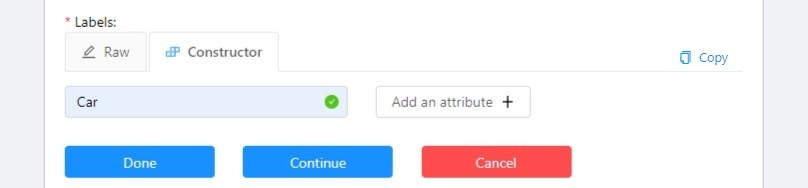
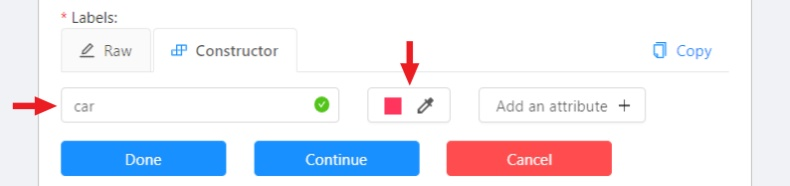
Update a few items in User Guide (#2236)
* Update user_guide.md and images

* Fix markup in user_guide.md

diff --git a/cvat/apps/documentation/user_guide.md b/cvat/apps/documentation/user_guide.md
@@ -100,7 +100,7 @@ Go to the [Django administration panel](http://localhost:8080/admin). There you 
     -   The ``Constructor`` is a simple way to add and adjust labels. To add a new label click the ``Add label`` button.
           ![](static/documentation/images/image123.jpg)
 
-        You can set a name of the label in the ``Label name`` field.
+        You can set a name of the label in the ``Label name`` field and choose a color for each label.
 
           ![](static/documentation/images/image124.jpg)
 
@@ -705,9 +705,6 @@ Button assignment:
   - [MS COCO](http://cocodataset.org/#format-data)
   - [YOLO](https://pjreddie.com/darknet/yolo/)
 - ``Open the task`` — opens a page with details about the task.
-- ``Run ReID merge`` —  automatic merge of shapes or tracks.
-  It is used to combine individual objects - created by automatic annotation in a single track.
-  For more information click [here](cvat/apps/reid/README.md).
 
 #### Save Work
 Saves annotations for the current job. The button has an indication of the saving process.
@@ -1353,12 +1350,14 @@ You can find the list of available models in the ``Models`` section.
 
     ![](static/documentation/images/gif014_detrac.gif)
 
-1.  Separated bounding boxes can be edited by removing false positives, adding unlabeled objects and
-    merging into tracks using ``ReID merge`` function. Click the ``ReID merge`` button in the menu.
-    You can use the default settings (for more information click [here](cvat/apps/reid/README.md)).
-    To launch the merging process click ``Merge``. Each frame of the track will be a key frame.
+1.  You can combine separate bounding boxes into tracks using the ``Person reidentification `` model.
+    To do this, click on the automatic annotation item in the action menu again and select the model
+    of the ``ReID`` type (in this case the ``Person reidentification`` model).
+    You can set the following parameters:
+      - Model ``Threshold`` is a maximum cosine distance between objects’ embeddings.
+      - ``Maximum distance`` defines a maximum radius that an object can diverge between adjacent frames.
 
-    ![](static/documentation/images/image133.jpg)
+      ![](static/documentation/images/image133.jpg)
 
 1.  You can remove false positives and edit tracks using ``Split`` and ``Merge`` functions.
 
